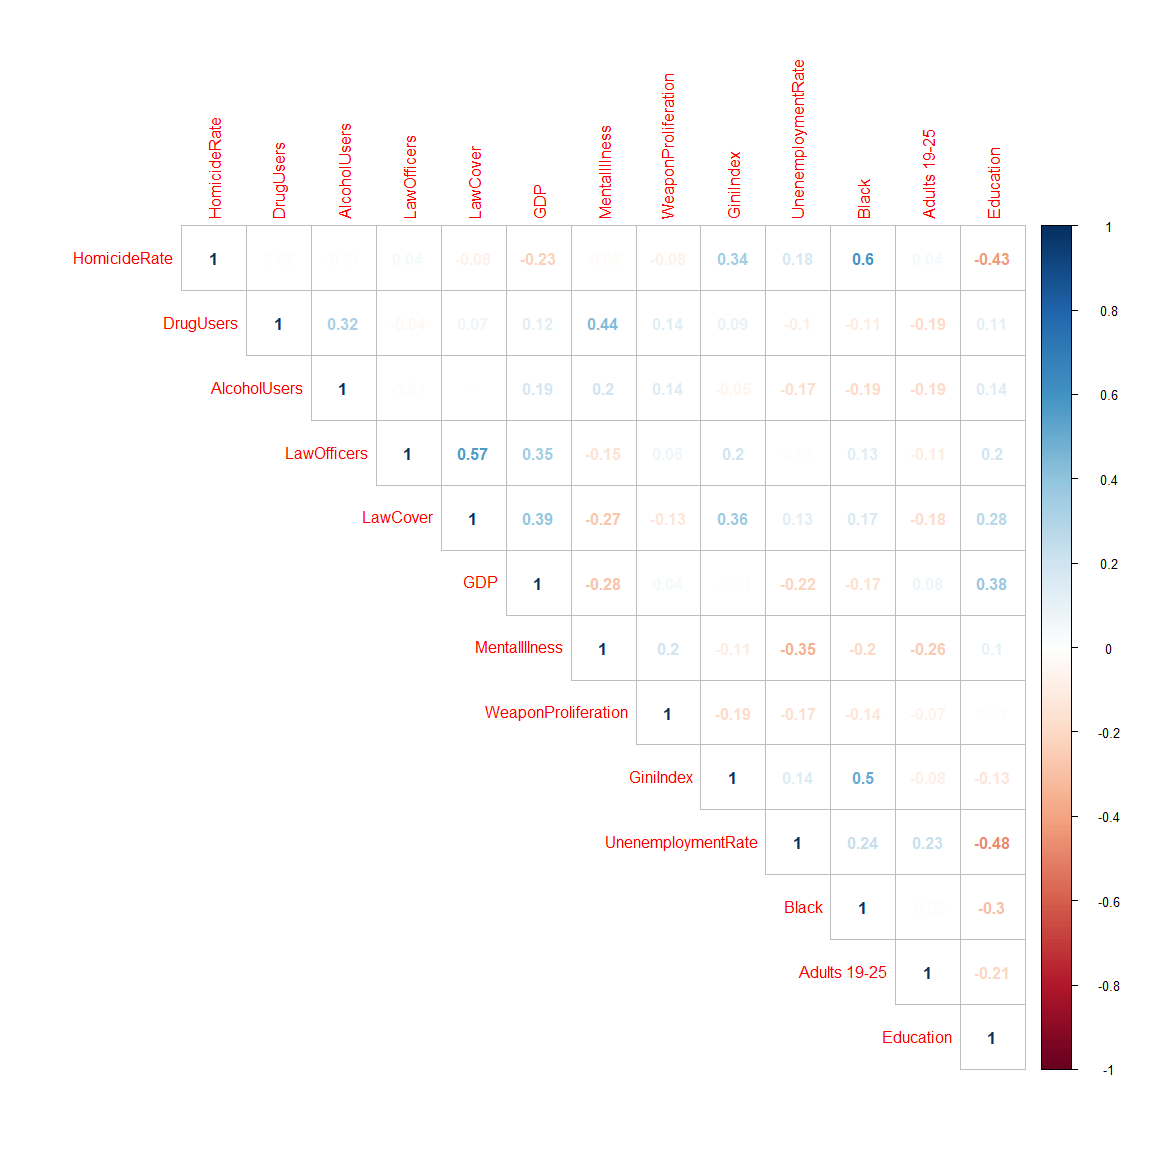
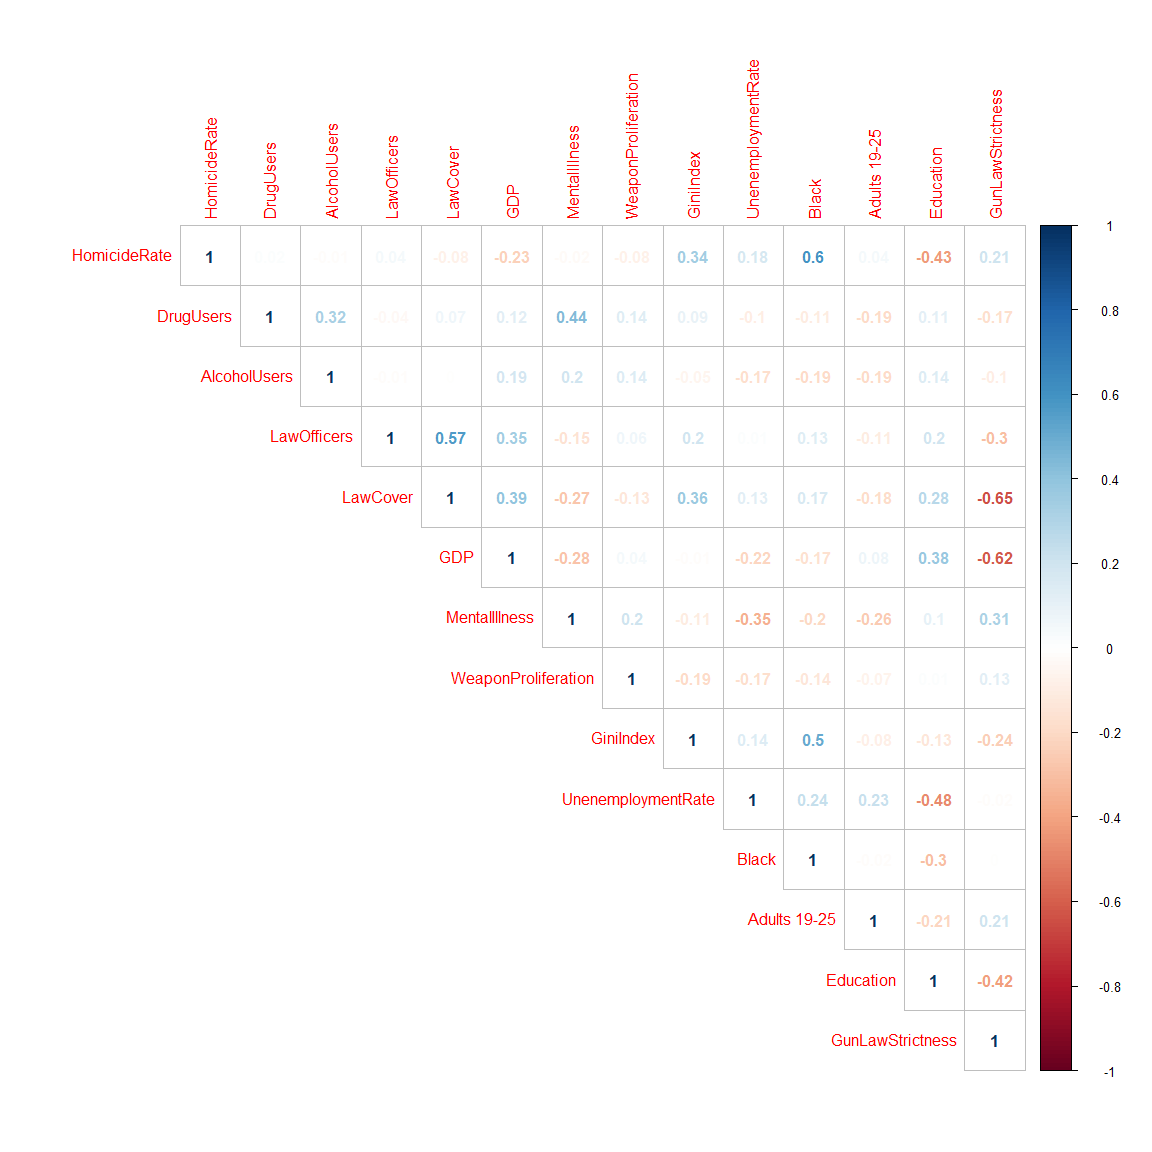
Added glmer

diff --git a/Hammad-Homicide.md b/Hammad-Homicide.md
@@ -716,7 +716,7 @@ knitr::opts_chunk$set(echo = TRUE,fig.width = 12,fig.height = 12)
 ```
 
 ``` r
-numerics=df[c('HomicideRate','DrugUsers','AlcoholUsers','LawOfficers','LawCover','GDP','MentalIllness','WeaponProliferation','GiniIndex','UnenemploymentRate','Black','Adults 19-25','Education')]
+numerics=df[c('HomicideRate','DrugUsers','AlcoholUsers','LawOfficers','LawCover','GDP','MentalIllness','WeaponProliferation','GiniIndex','UnenemploymentRate','Black','Adults 19-25','Education','GunLawStrictness')]
 correlations=cor(numerics,use = "pairwise.complete.obs")
 corrplot(correlations,method = "number",type="upper")
 ```
@@ -1219,3 +1219,87 @@ AIC(reg6)
 #reg7<-glmer.nb(log(HomicideRate2)~MentalIllness+GDP+LawOfficers+LawCover+AlcoholUsers+DrugUsers+df$`Big Cities`+GunLawRank+Region+Black+GiniIndex+(1|State)+(1|Year)+UnenemploymentRate+Education+WeaponProliferation,data = df)
 #AIC(reg7)
 ```
+
+## GLMER with state random effect and numeric gun laws - No region - VIF pass
+
+``` r
+reg7<-glmer(log(HomicideRate)~MentalIllness+GDP+LawOfficers+LawCover+AlcoholUsers+DrugUsers+df$`Big Cities`+GunLawStrictness+Black+GiniIndex+(1|State)+(1|Year)+UnenemploymentRate+Education+WeaponProliferation,data = df,family = "gaussian")
+```
+
+    ## Warning in glmer(log(HomicideRate) ~ MentalIllness + GDP + LawOfficers
+    ## + : calling glmer() with family=gaussian (identity link) as a shortcut to
+    ## lmer() is deprecated; please call lmer() directly
+
+    ## Warning: Some predictor variables are on very different scales: consider
+    ## rescaling
+
+``` r
+summary(reg7)
+```
+
+    ## Linear mixed model fit by REML ['lmerMod']
+    ## Formula: 
+    ## log(HomicideRate) ~ MentalIllness + GDP + LawOfficers + LawCover +  
+    ##     AlcoholUsers + DrugUsers + df$`Big Cities` + GunLawStrictness +  
+    ##     Black + GiniIndex + (1 | State) + (1 | Year) + UnenemploymentRate +  
+    ##     Education + WeaponProliferation
+    ##    Data: df
+    ## 
+    ## REML criterion at convergence: 58.6
+    ## 
+    ## Scaled residuals: 
+    ##     Min      1Q  Median      3Q     Max 
+    ## -3.2651 -0.4892  0.0021  0.5109  4.2937 
+    ## 
+    ## Random effects:
+    ##  Groups   Name        Variance Std.Dev.
+    ##  State    (Intercept) 0.10760  0.3280  
+    ##  Year     (Intercept) 0.03779  0.1944  
+    ##  Residual             0.02886  0.1699  
+    ## Number of obs: 299, groups:  State, 50; Year, 6
+    ## 
+    ## Fixed effects:
+    ##                       Estimate Std. Error t value
+    ## (Intercept)          0.0722253  1.7112600   0.042
+    ## MentalIllness        0.0040926  0.0049316   0.830
+    ## GDP                 -0.0038056  0.0043941  -0.866
+    ## LawOfficers          0.0058611  0.0045312   1.293
+    ## LawCover            -0.0014041  0.0007493  -1.874
+    ## AlcoholUsers        -0.0005837  0.0023795  -0.245
+    ## DrugUsers            0.0064864  0.0052727   1.230
+    ## df$`Big Cities`      0.0777390  0.0487977   1.593
+    ## GunLawStrictness     0.0130382  0.0286214   0.456
+    ## Black                0.0298143  0.0059309   5.027
+    ## GiniIndex            2.6988589  2.9054387   0.929
+    ## UnenemploymentRate   0.0505603  0.0169325   2.986
+    ## Education           -0.0079323  0.0104423  -0.760
+    ## WeaponProliferation -0.0003275  0.0003465  -0.945
+
+    ## 
+    ## Correlation matrix not shown by default, as p = 14 > 12.
+    ## Use print(x, correlation=TRUE)  or
+    ##     vcov(x)        if you need it
+
+    ## fit warnings:
+    ## Some predictor variables are on very different scales: consider rescaling
+
+``` r
+AIC(reg7)
+```
+
+    ## [1] 92.64646
+
+``` r
+vif(reg7)
+```
+
+    ##       MentalIllness                 GDP         LawOfficers 
+    ##            1.203405            1.560657            1.278038 
+    ##            LawCover        AlcoholUsers           DrugUsers 
+    ##            1.678893            1.206268            1.180781 
+    ##     df$`Big Cities`    GunLawStrictness               Black 
+    ##            1.186222            1.439962            1.378662 
+    ##           GiniIndex  UnenemploymentRate           Education 
+    ##            1.577819            1.356599            1.149873 
+    ## WeaponProliferation 
+    ##            1.088298
